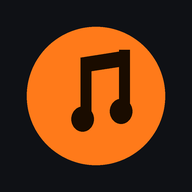
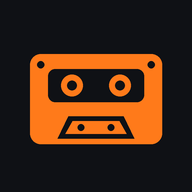
Løpespiller v1.0.1: kassettikon
Claude-Session: https://claude.ai/code/session_01Gj776y4VtSpSTmJvouuRX7

Changed region(s): [[0.1562, 0.125, 0.875, 0.875], [0.125, 0.375, 0.1562, 0.625]]

diff --git a/sw.js b/sw.js
@@ -1,6 +1,6 @@
 // Løpespiller service worker – gjør appen tilgjengelig uten nett.
 // Bytt versjonsnummeret ved hver ny versjon, så hentes de nye filene.
-const VERSION = "1.0.0";
+const VERSION = "1.0.1";
 const CACHE = "lopespiller-" + VERSION;
 const FILES = [
   "./",

diff --git a/index.html b/index.html
@@ -146,7 +146,7 @@
 
 <script>
 "use strict";
-const VERSION = "1.0.0";
+const VERSION = "1.0.1";
 const AUDIO_EXT = /\.(mp3|m4a|aac|ogg|oga|opus|flac|wav|webm|mp4|3gp)$/i;
 const $ = (id) => document.getElementById(id);
 const audio = $("audio");

diff --git a/README.md b/README.md
@@ -1,7 +1,7 @@
 # Runlikehell.io
 Musikkspiller for løpeturen: shuffle fra en mappe på telefonen, styres med headset og låseskjerm, virker uten nett.
 
-**Versjon:** 1.0.0
+**Versjon:** 1.0.1
 
 ## Bruk
 1. Åpne siden i Chrome på Android (på wifi første gang).
@@ -10,6 +10,7 @@ Musikkspiller for løpeturen: shuffle fra en mappe på telefonen, styres med hea
 4. «Annen mappe …» spiller en mappe midlertidig uten å endre standardmappa.
 
 ## Versjoner
+- **1.0.1** – Nytt kassettikon på appen/snarveien.
 - **1.0.0** – Første versjon: standardmappe lagret i appen, midlertidig mappe, shuffle, headset-/låseskjermkontroll (Media Session), offline (service worker).
 
 Ved ny versjon: oppdater `VERSION` i både `index.html` og `sw.js`.
